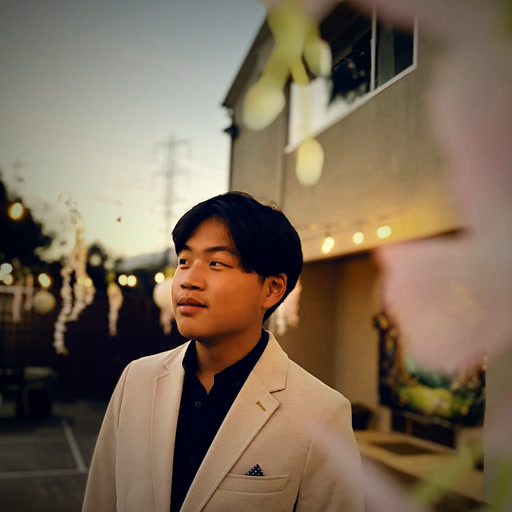
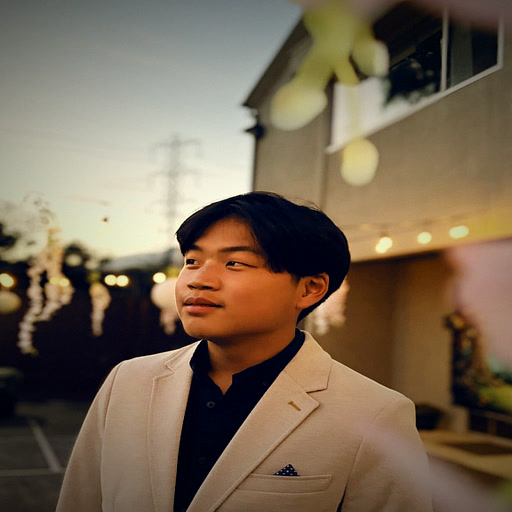
Deploy 2026-10-19 17:40

diff --git a/index.html b/index.html
@@ -668,12 +668,13 @@
     display: grid;
     grid-template-columns: 0.8fr 1.2fr;
     gap: 80px;
-    align-items: center;
+    align-items: stretch;
   }
   @media (max-width: 800px) { .about { grid-template-columns: 1fr; gap: 40px; } }
 
   .about .portrait {
-    aspect-ratio: 3/4;
+    aspect-ratio: auto;
+    min-height: 640px;
     background: var(--ink);
     border: 1px solid var(--line);
     overflow: hidden;
@@ -686,6 +687,7 @@
     width: 100%;
     height: 100%;
     object-fit: cover;
+    object-position: 42% center;
     display: block;
     filter: saturate(0.94) contrast(1.03);
   }
